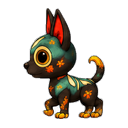
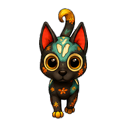
Replace Xolo's idle_down and idle_up with real confirmed art
Both cropped from labeled front/back reference sheets (flood-fill matted,
same pipeline as everything else), re-anchored to the shared 128x128
baseline. idle_up came from a dedicated back-view sheet. idle_down reused
a frame from the earlier front-facing "walk cycle" attempt that failed as
a walk cycle (all 8 frames were the same standing pose) but is exactly
right for a single static idle pose -- nothing wasted, just needed the
right use for it.

Xolo now has real idle art in all four directions plus real walk_left/
walk_right. Only walk_down/walk_up remain placeholder (still reusing the
left-facing walk frames), since a real front/back walking gait needs
another art pass -- these models handle side-view leg motion much better
than straight-on, per the note already in docs/GAME_OVERVIEW.md.

Corrected a doc inaccuracy from earlier: the front-facing walk attempt was
previously logged as "discarded, not saved to the repo" -- it ended up
being used after all, just for a different purpose than originally
requested.

Verified in-browser: idle_down loads correctly via the debug viewer
(Character: Xolo, Animation: idle_down, 1/1 frame), no console errors.

diff --git a/docs/GAME_OVERVIEW.md b/docs/GAME_OVERVIEW.md
@@ -12,7 +12,7 @@ Pepita, Miguelito (placeholder art), and Xolo (partial real art) are implemented
 | --- | --- | --- | --- |
 | Pepita | florist | humanoid | `pepita` — **implemented**, mostly real art |
 | Miguelito | mischievous kid | humanoid | `miguelito` — **implemented**, placeholder art |
-| Xolo | loyal dog | pet | `xolo` — **implemented**, real `walk_left`/`walk_right` art, rest placeholder |
+| Xolo | loyal dog | pet | `xolo` — **implemented**, real `walk_left`/`walk_right` and all four `idle` poses; `walk_down`/`walk_up` still placeholder |
 | Abuela Rosa | always baking | humanoid | `abuela-rosa` |
 | Tito | mariachi | humanoid | `tito` |
 | Pinto | painter | humanoid | `pinto` |
@@ -57,7 +57,7 @@ Folders exist under `assets/decorations/<name>/` (currently empty, `.gitkeep`-tr
 4. Give Miguelito (or whichever resident comes next) real artwork — he's currently a deliberately minimal placeholder that exists only to validate #3
 5. ~~Carry/drag system~~ — done: drag any idle resident onto the house to house them (they disappear, the house's window lights up), tap the house to release. Proved with Miguelito; works for anyone, not pet-specific, so Xolo can use the same mechanism once his art exists.
 6. ~~Generalize the stateful-hotspot pattern~~ — done: `src/hotspots.js` has `createInteractiveHotspot` (flower bed, bench) and `createHousingZone` (house), both flower bed and house refactored onto it with no behaviour change, and the bench is a new third example proving it generalizes to a fresh object/action pair. Still open: more objects using the same factories (other buildings, a door), and a real "linger while seated" behaviour for the bench (see its README note on `finishAction` always celebrating)
-7. ~~First pet rig (Xolo)~~ — turned out not to need a separate rig at all: the existing humanoid controllers work fine for a pet silhouette. Xolo is in the village now with real, verified `walk_left` art (8-frame gait, mirrored to `walk_right`) and can be carried/housed/tapped like anyone else. Still needed: real `walk_down`/`walk_up`/idle art (currently reusing the left-facing frames as a placeholder stand-in) and the dog+bone interaction itself
+7. ~~First pet rig (Xolo)~~ — turned out not to need a separate rig at all: the existing humanoid controllers work fine for a pet silhouette. Xolo is in the village now with real, verified `walk_left`/`walk_right` art and real static idle poses in all four directions, and can be carried/housed/tapped like anyone else. Still needed: real `walk_down`/`walk_up` walking gaits (currently reusing the left-facing walk frames as a placeholder stand-in -- his front/back art so far is static idle only) and the dog+bone interaction itself
 8. Decorations and UI icon sets
 
 ## Parked ideas (not scheduled, just don't want to lose them)
@@ -72,4 +72,4 @@ Folders exist under `assets/decorations/<name>/` (currently empty, `.gitkeep`-tr
 ## Known bad art attempts (don't reuse)
 
 - **Xolo, first attempt** — ChatGPT generated a moss/rock totem-creature completely unrelated to the alebrije spirit-dog brief (teal-black glowing patterns, red bat ears, one big glowing eye per side). Discarded, not saved to the repo.
-- **Xolo, front-facing walk cycle attempt** — design was correct this time (matched the confirmed reference), but all 8 frames were the same standing pose with no real leg movement — verified by cropping and comparing frames directly, not just eyeballing. Discarded, not saved to the repo. Takeaway: a straight-on front view is a genuinely hard angle for these models to convey quadruped walking motion in (legs mostly swing side-to-side from that angle, so the per-frame difference is small and easy for the model to flatten away). The side-view request that followed worked on the first try — see `assets/characters/xolo/walk/left/`.
+- **Xolo, front-facing walk cycle attempt** — design was correct this time (matched the confirmed reference), but all 8 frames were the same standing pose with no real leg movement — verified by cropping and comparing frames directly, not just eyeballing. Not usable as a *walk cycle*, but not wasted either: since all frames were identical anyway, one frame got reused later as the real static `idle_down` pose once that's what was actually needed. Takeaway: a straight-on front view is a genuinely hard angle for these models to convey quadruped walking motion in (legs mostly swing side-to-side from that angle, so the per-frame difference is small and easy for the model to flatten away) -- but that same flatness is exactly fine for a static idle pose. The side-view walk request worked on the first try — see `assets/characters/xolo/walk/left/`.

diff --git a/README.md b/README.md
@@ -1,6 +1,6 @@
 # Spirit Village — Pepita Phase 1
 
-This repository contains the first reusable resident-animation foundation for **Dead of the Dead / Spirit Village**. Pepita the florist is the first fully-art'd resident. Miguelito exists as a deliberately minimal placeholder second resident (`scripts/generate-miguelito-placeholders.py`), used to prove the multi-resident framework actually generalizes beyond a single hardcoded character — not a real character yet. Xolo is the first pet: real, background-matted `walk_left` art (genuine alternating-leg gait, confirmed frame-by-frame before wiring in) mirrored to `walk_right`; `walk_down`/`walk_up`/idle are temporary stand-ins reusing the left-facing art until front/back poses exist (see `assets/characters/xolo/character.json`'s `visualReference.note`).
+This repository contains the first reusable resident-animation foundation for **Dead of the Dead / Spirit Village**. Pepita the florist is the first fully-art'd resident. Miguelito exists as a deliberately minimal placeholder second resident (`scripts/generate-miguelito-placeholders.py`), used to prove the multi-resident framework actually generalizes beyond a single hardcoded character — not a real character yet. Xolo is the first pet: real, background-matted `walk_left` art (genuine alternating-leg gait, confirmed frame-by-frame before wiring in) mirrored to `walk_right`, plus real static idle poses in all four directions (front/back/side references). `walk_down`/`walk_up` still temporarily reuse the left-facing walk frames until real front/back walking gaits exist — front-view gaits are a hard angle for these image models to convey motion in (see `docs/GAME_OVERVIEW.md`'s "known bad art attempts" section), so getting those right will likely take more iteration than the side view did.
 
 See [`docs/GAME_OVERVIEW.md`](docs/GAME_OVERVIEW.md) for the full game vision — the planned roster, world interactions, decorations, and UI — and how the current code maps onto it. The rest of the roster has scaffolded (art-less) folders under `assets/characters/` so future work has a home.
 
